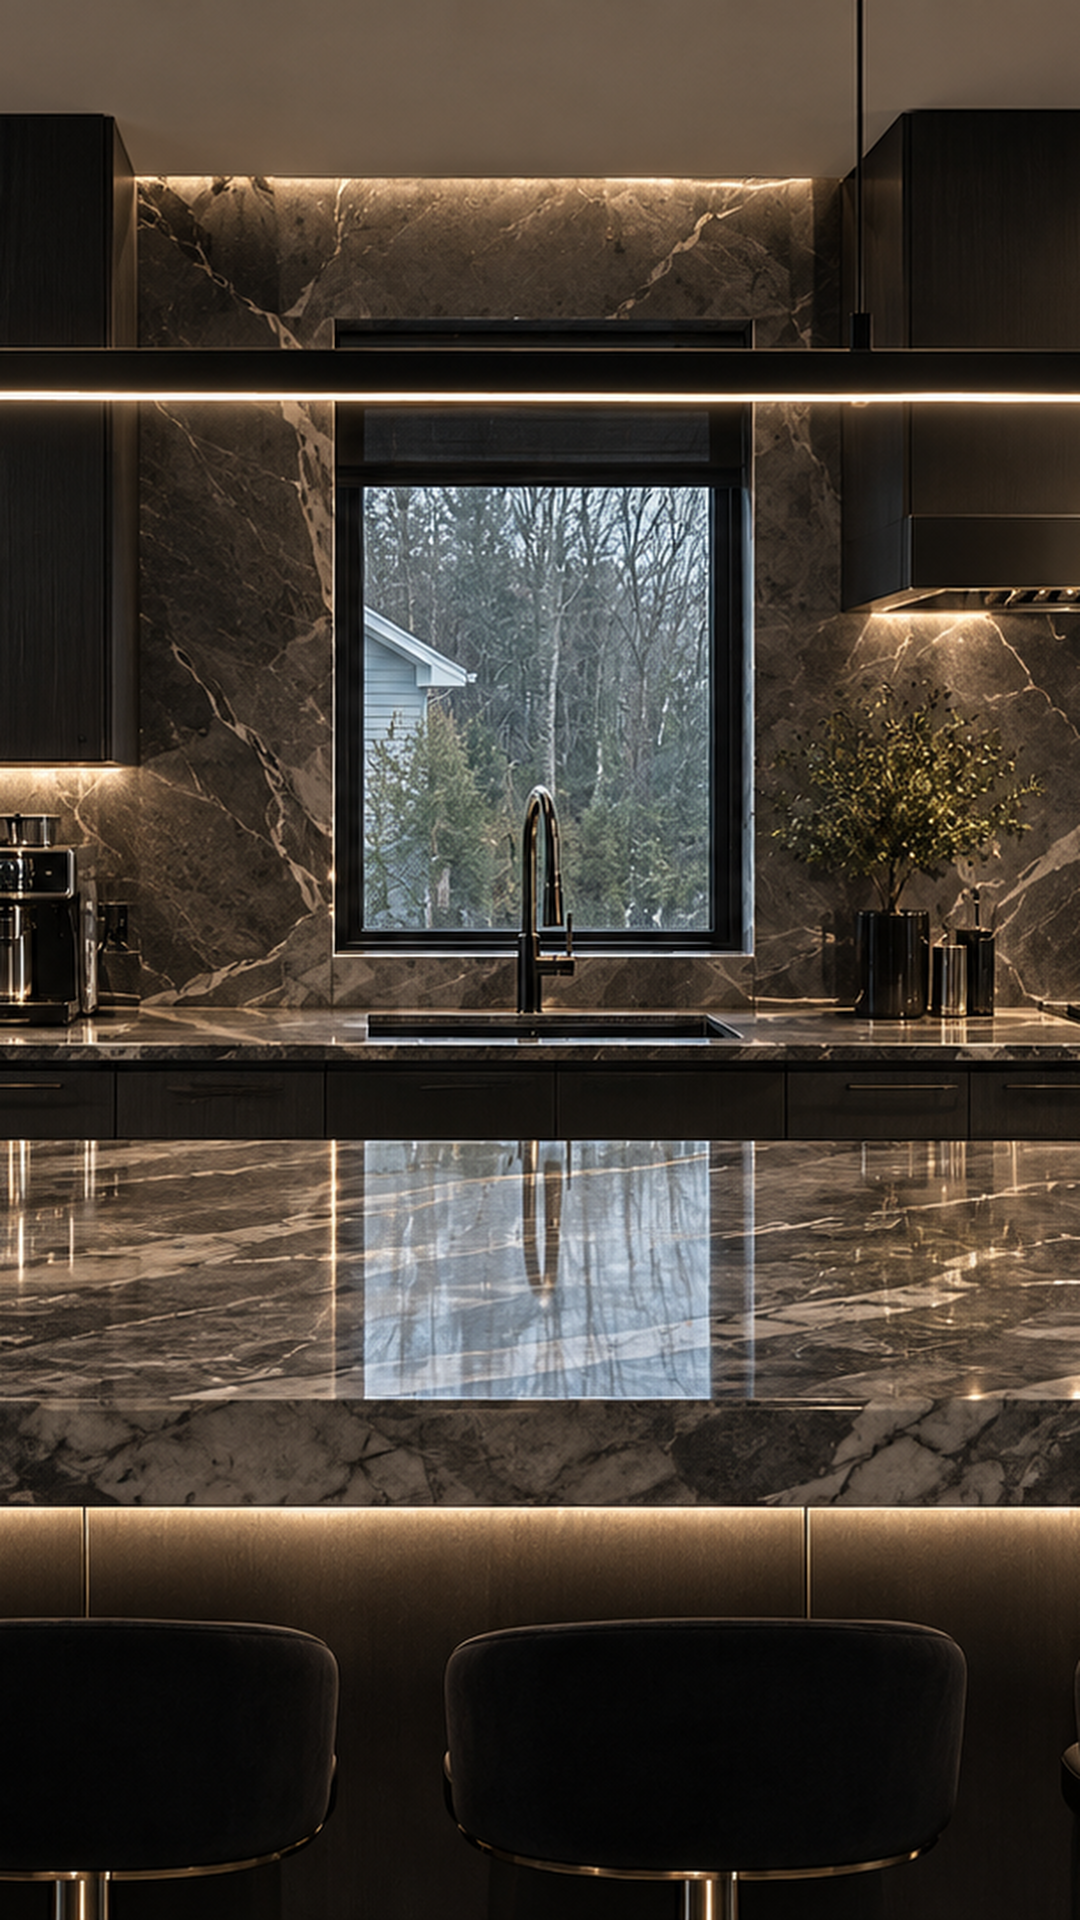
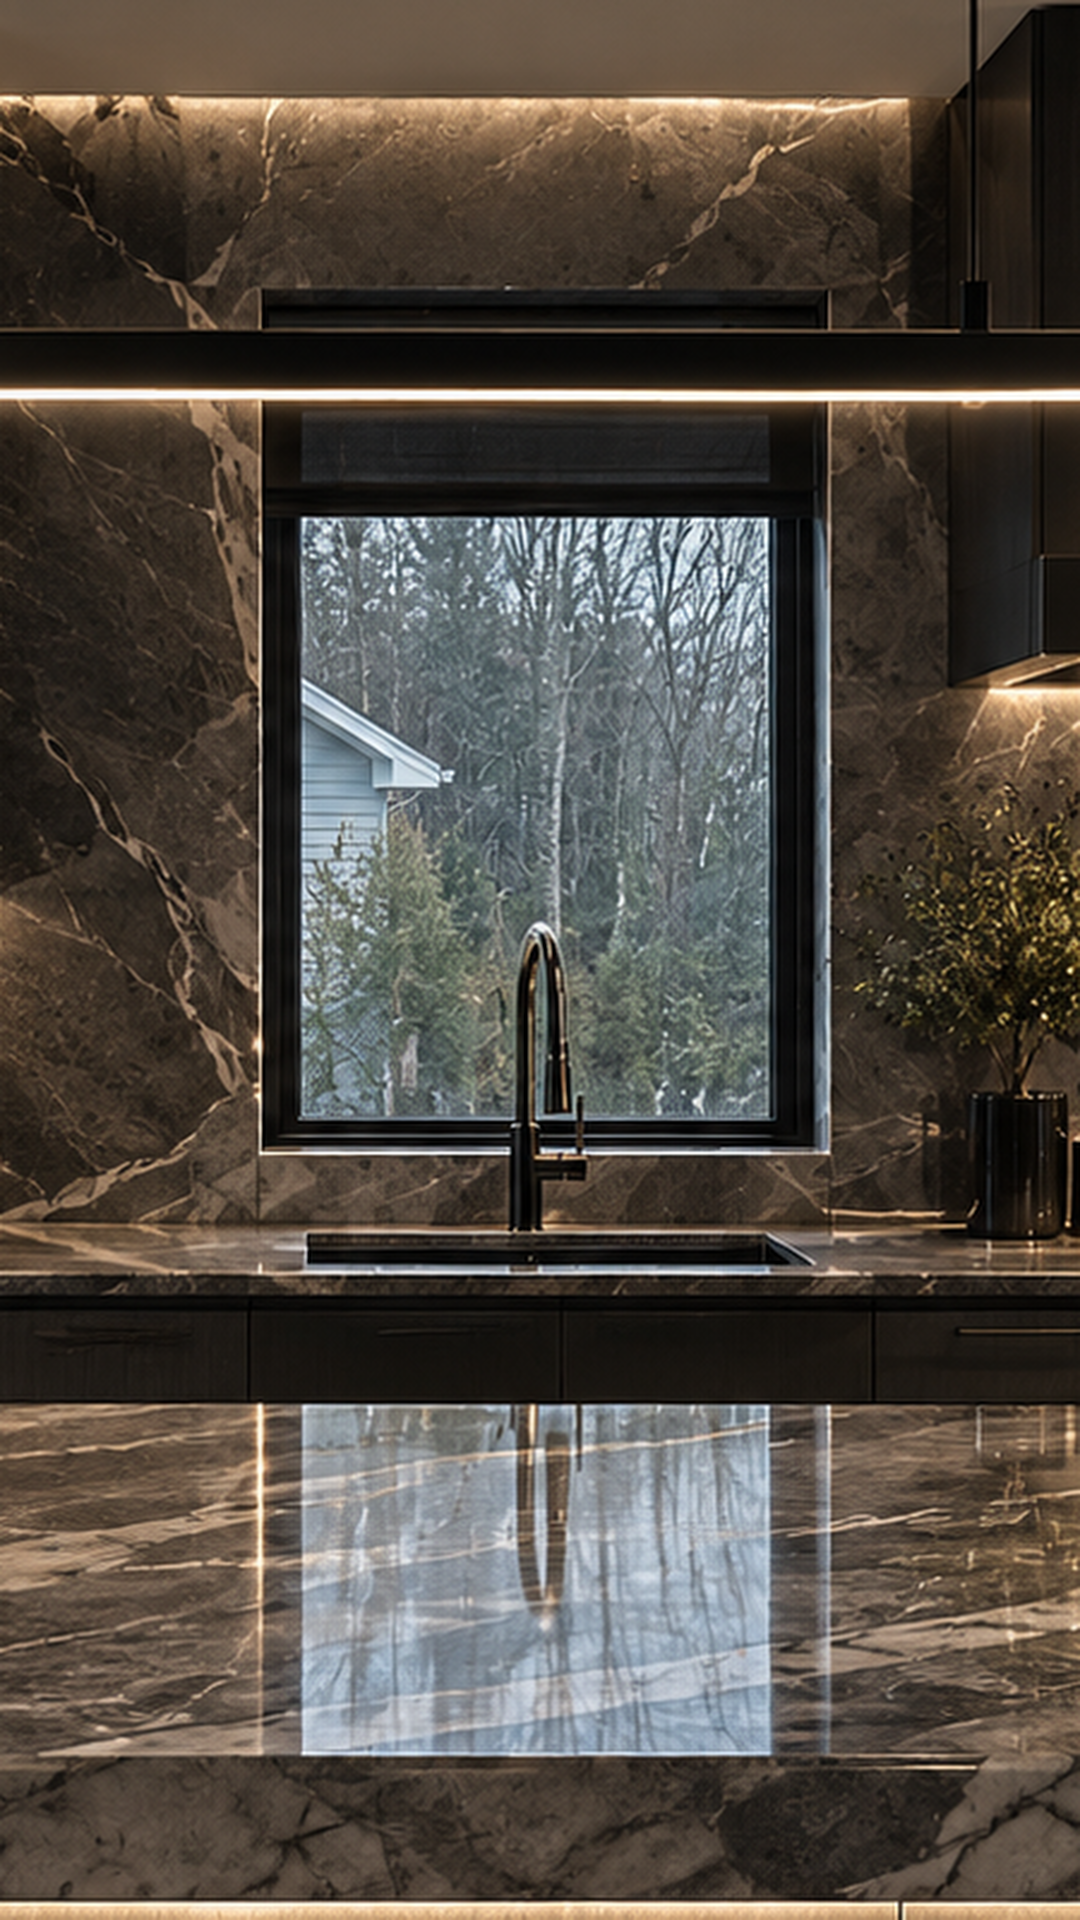
Kitchen set: Jac behind the island, 3-layer composite, tighter plate
Claude-Session: https://claude.ai/code/session_01CHbjGf6RoaAaTHwKT8d6MF

diff --git a/reel-kit/SIGNATURE.md b/reel-kit/SIGNATURE.md
@@ -13,7 +13,7 @@ Status per element: **OPEN** (waiting on Jac's references or files) → **PROPOS
 | B-roll → b-roll | PROPOSED | Hard cut on the beat, with whoosh_short. One gold film-burn (light leak) per video, max, on a topic change. |
 | Felt line | PROPOSED | A breath of silence (0.8 s), then the strongest b-roll on the music drop, with magic_shimmer. |
 | Outro / loop | PROPOSED | The last line becomes a hero card in accent red, then light pulls in to a point, then cut to frame 1. |
-| Background | **LOCKED** (Jac's pick, 2026-11-11, replaces the terrace) | **Dark luxury kitchen**: black cabinets, grey marble, warm under-cabinet LED strips, linear pendant (`assets/backgrounds/kitchen_source.png` → 9:16 plate `kitchen_plate.png`, cropped centered on the window). Jac sits face-front, chest-up, cut out and placed so **the window sits right behind his head** (a soft daylight halo in a dark room). Plate softly defocused (depth of field), slow 100–104% push across the reel, a faint warm bloom from the pendant over his edges. Same plate and framing every reel. Terrace above the clouds (`terrace_above_clouds.mp4`) is kept as a backup or special-episode set. |
+| Background | **LOCKED** (2026-11-11) | **Jac's own kitchen, redesigned modern** (dark luxury: black cabinets, grey marble, warm LED strips; `assets/backgrounds/kitchen_source.png` → 9:16 plate `kitchen_plate.png`, source crop y60–860 centered on the window). **Jac stands behind the island**, filmed in his real kitchen. 3 layers: back wall and window (defocused) → Jac (cutout) → island countertop in front of him (sharper, from plate row 1404 down). The window sits right behind his head as a soft daylight halo. A faint reflection of him in the polished marble, a soft contact shadow at the counter line, slow 100–104% push across the reel. Same plate and framing every reel. Terrace above the clouds kept as a backup or special-episode set. |
 | Grade | PROPOSED | Warm skin, deep indigo shadows, grain 8%, light bloom on highlights. B-roll gets the same grade. |
 | SFX palette | **LOCKED** (Jac's files) | One sound per event, always the same file. See the SFX map below. |
 | Music | Per reel | A cinematic build (Interstellar-style). The edit is cut to its beats when the track is supplied. |
